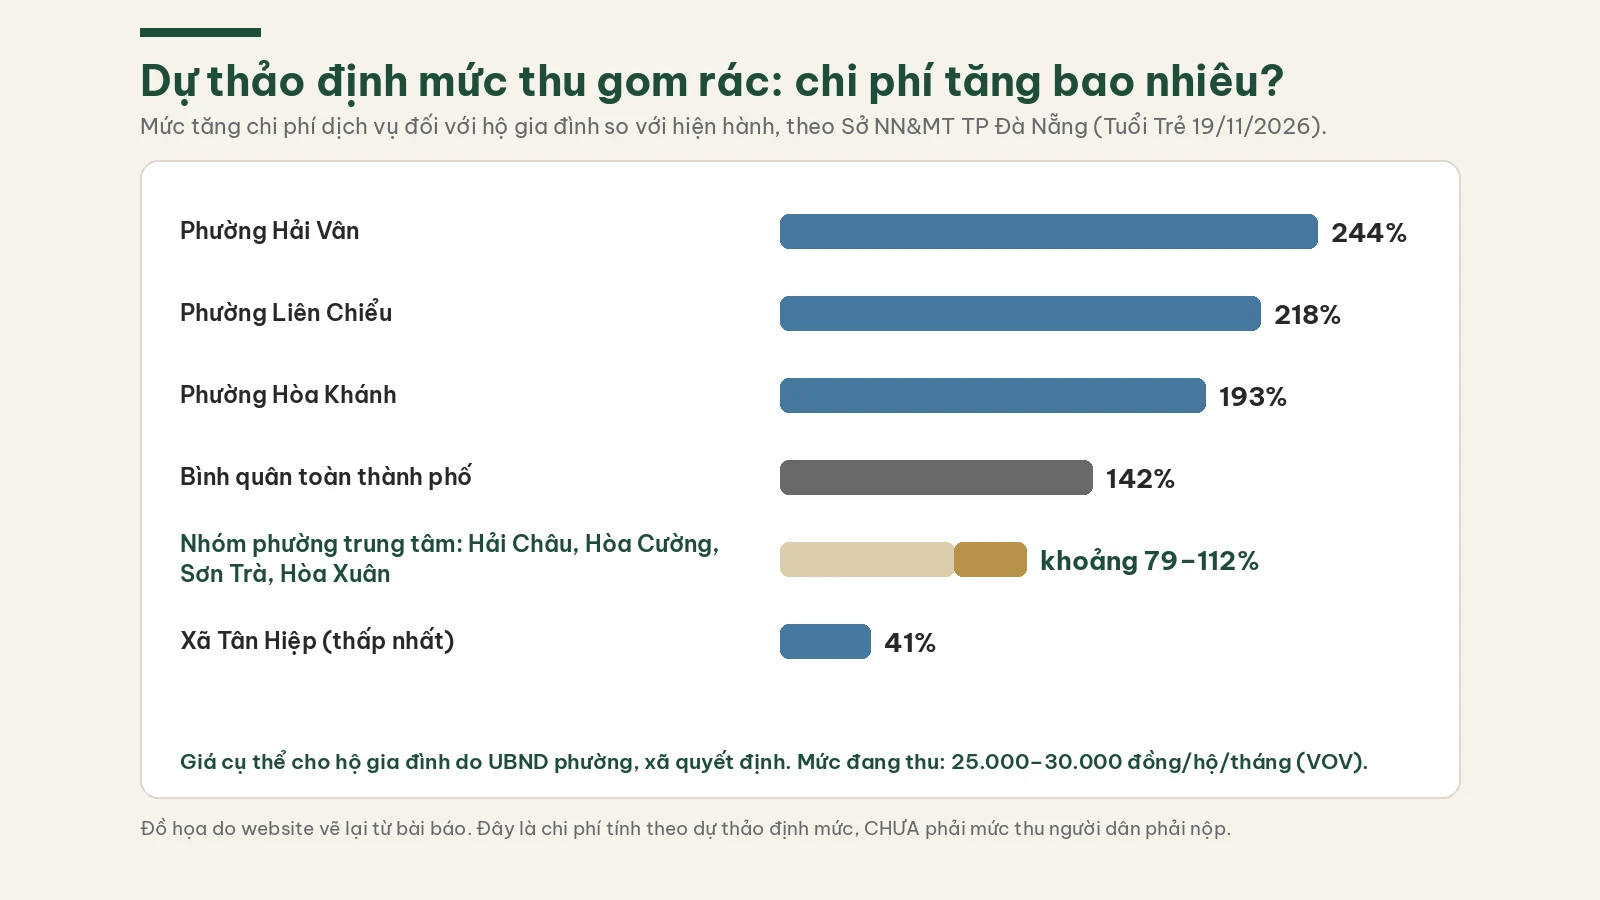
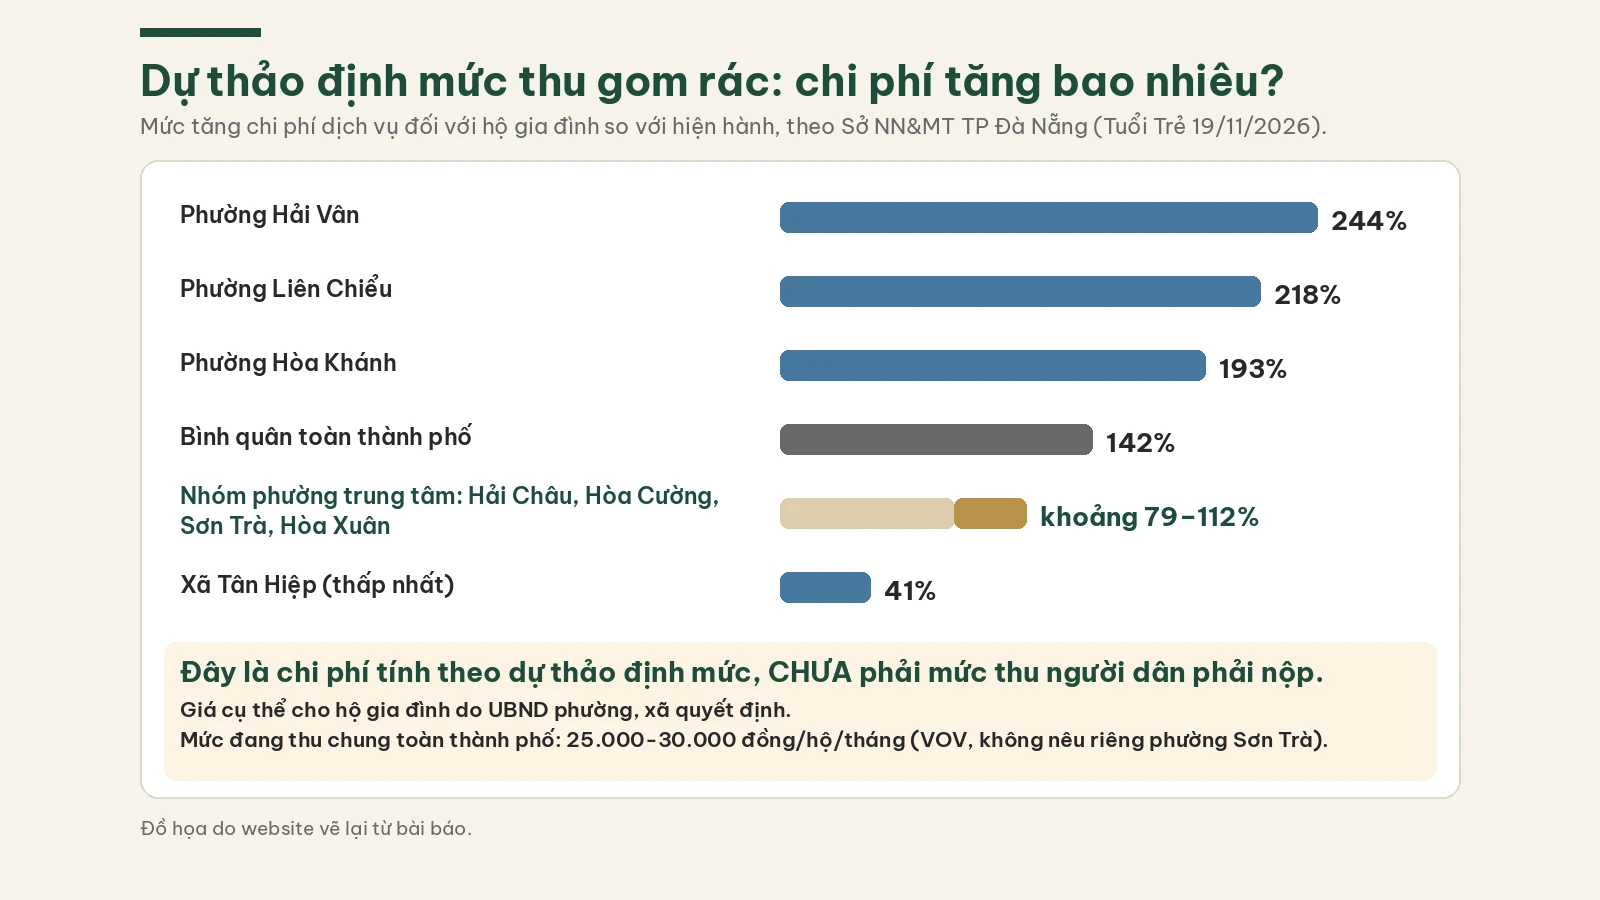
content: rút gọn tiêu đề, làm rõ mức thu VOV là toàn thành phố, đưa chú thích CHƯA phải mức thu vào khung biểu đồ (19.11.2026)

Changed region(s): [[0.0938, 0.2178, 0.9062, 0.8711], [0.2812, 0.9022, 0.7812, 0.9333], [0.0938, 0.2178, 0.2188, 0.28]]

diff --git a/src/data/news/articles/son-tra-ngan-sach-dinh-muc-rac-19-11-2026.ts b/src/data/news/articles/son-tra-ngan-sach-dinh-muc-rac-19-11-2026.ts
@@ -4,7 +4,7 @@ export const article = {
   slug: "son-tra-ngan-sach-dinh-muc-rac-19-11-2026",
   date: "19.11.2026",
   title:
-    "Phường Sơn Trà 17–19/11: HĐND giám sát ngân sách, tăng trưởng ước 11,36%; dự thảo định mức thu gom rác tăng chi phí, chưa phải mức thu",
+    "Phường Sơn Trà 17-19/11: HĐND giám sát ngân sách; dự thảo định mức rác chưa phải mức thu",
   excerpt:
     "Sáng 18/11/2026, Ban Kinh tế – Ngân sách HĐND TP Đà Nẵng giám sát ngân sách tại phường Sơn Trà: tốc độ tăng tổng giá trị sản phẩm trên địa bàn cả năm 2026 ước 11,36%, thu ngân sách đến 31/10 đạt 1.451 tỷ đồng (86% dự toán). Dự thảo định mức thu gom rác mới tính chi phí dịch vụ cho hộ gia đình ở nhóm phường trung tâm, trong đó có Sơn Trà, tăng khoảng 79–112%, nhưng đây chưa phải mức thu người dân.",
   description:
@@ -49,10 +49,10 @@ export const article = {
       text: "Theo Tuổi Trẻ (19/11/2026), Sở Nông nghiệp và Môi trường TP Đà Nẵng vừa có báo cáo giải trình, bổ sung các nội dung phản biện xã hội về dự thảo định mức kinh tế – kỹ thuật thu gom, vận chuyển, xử lý rác sinh hoạt và vệ sinh công cộng. Từ dự thảo, Sở tính chi phí dịch vụ đối với hộ gia đình có thể tăng 41–244% so với mức hiện hành, bình quân khoảng 142%. Các phường trung tâm như Hải Châu, Hòa Cường, Sơn Trà, Hòa Xuân có mức tăng thấp hơn, khoảng 79–112%; mức tăng cao ở phường Hải Vân (244%), Liên Chiểu (218%), Hòa Khánh (193%), thấp nhất là xã Tân Hiệp (41%).",
     },
     {
-      text: "Sở nhấn mạnh mức giá dự kiến mới là chi phí tính theo dự thảo định mức, chưa phải mức thu áp dụng với người dân, và việc ban hành định mức không làm thay đổi ngay mức giá người dân đang trả. UBND các phường, xã, đặc khu sẽ xây dựng, thẩm định và quyết định mức giá cụ thể với hộ gia đình, cá nhân, bảo đảm khả năng thanh toán và có lộ trình, tránh tăng đột biến (Tuổi Trẻ, 19/11/2026). Theo VOV (16/11/2026), mức giá thu gom rác người dân đang trả là 25.000–30.000 đồng/hộ/tháng, áp dụng theo các quyết định ban hành năm 2017; chiều 16/11, Ủy ban MTTQ Việt Nam thành phố tổ chức hội nghị phản biện xã hội dự thảo này. Cổng thông tin điện tử TP Đà Nẵng (30/09/2026) cho biết kế hoạch phấn đấu tham mưu UBND thành phố phê duyệt định mức trong tháng 11/2026. Đồ họa dưới đây do website vẽ lại từ bài Tuổi Trẻ.",
+      text: "Sở nhấn mạnh mức giá dự kiến mới là chi phí tính theo dự thảo định mức, chưa phải mức thu áp dụng với người dân, và việc ban hành định mức không làm thay đổi ngay mức giá người dân đang trả. UBND các phường, xã, đặc khu sẽ xây dựng, thẩm định và quyết định mức giá cụ thể với hộ gia đình, cá nhân, bảo đảm khả năng thanh toán và có lộ trình, tránh tăng đột biến (Tuổi Trẻ, 19/11/2026). Theo VOV (16/11/2026), mức giá thu gom rác người dân trên địa bàn thành phố đang trả là 25.000-30.000 đồng/hộ/tháng, áp dụng theo Quyết định số 33/2017 của UBND TP Đà Nẵng (cũ) và Quyết định số 22/2017 của UBND tỉnh Quảng Nam (cũ); bài VOV không nêu mức riêng của phường Sơn Trà. Chiều 16/11, Ủy ban MTTQ Việt Nam thành phố tổ chức hội nghị phản biện xã hội dự thảo này. Cổng thông tin điện tử TP Đà Nẵng (30/09/2026) cho biết kế hoạch phấn đấu tham mưu UBND thành phố phê duyệt định mức trong tháng 11/2026. Đồ họa dưới đây do website vẽ lại từ bài Tuổi Trẻ.",
       image: "/images/news-son-tra-1911-body-dinh-muc-rac.webp",
       imageAlt:
-        "Biểu đồ mức tăng chi phí dịch vụ thu gom rác đối với hộ gia đình theo dự thảo định mức của Đà Nẵng: phường Hải Vân 244%, Liên Chiểu 218%, Hòa Khánh 193%, bình quân 142%, nhóm phường trung tâm Hải Châu, Hòa Cường, Sơn Trà, Hòa Xuân khoảng 79–112%, xã Tân Hiệp 41%. Ghi chú: đây là chi phí tính theo dự thảo, chưa phải mức thu người dân; giá cụ thể do UBND phường, xã quyết định; mức đang thu 25.000–30.000 đồng/hộ/tháng theo VOV.",
+        "Biểu đồ mức tăng chi phí dịch vụ thu gom rác đối với hộ gia đình theo dự thảo định mức của Đà Nẵng: phường Hải Vân 244%, Liên Chiểu 218%, Hòa Khánh 193%, bình quân 142%, nhóm phường trung tâm Hải Châu, Hòa Cường, Sơn Trà, Hòa Xuân khoảng 79–112%, xã Tân Hiệp 41%. Ghi chú: đây là chi phí tính theo dự thảo, chưa phải mức thu người dân; giá cụ thể do UBND phường, xã quyết định; Mức đang thu chung toàn thành phố: 25.000-30.000 đồng/hộ/tháng (VOV, không nêu riêng phường Sơn Trà).",
     },
     {
       heading: "Chương trình vùng Sơn Trà ra mắt Ban Phát triển 22 tổ dân phố",
@@ -70,7 +70,7 @@ export const article = {
       ],
     },
     {
-      text: "Theo Tiền Phong (18/11/2026), Ban Chỉ huy Phòng thủ dân sự TP Đà Nẵng đã ban hành Công văn số 94, yêu cầu các địa phương rà soát khu vực trũng thấp, nguy cơ sạt lở, kiểm tra hệ thống thoát nước, khơi thông dòng chảy; vùng biển từ Nam Quảng Trị đến Quảng Ngãi từ chiều và đêm 19/11 có gió mạnh cấp 6, giật cấp 7–8. Về bán đảo Sơn Trà, tạm dừng tham quan từ 15h30 ngày 10/11/2026 (VietNamNet, 10/11/2026); đến sáng 19/11, website chưa tìm thấy nguồn báo chí nào đưa thông báo mở lại của Ban Quản lý. Anh chị nên theo dõi bản tin mới nhất và thông báo của Ban Quản lý trước khi lên bán đảo.",
+      text: "Cũng theo Tiền Phong, Ban Chỉ huy Phòng thủ dân sự TP Đà Nẵng đã ban hành Công văn số 94, yêu cầu các địa phương rà soát khu vực trũng thấp, nguy cơ sạt lở, kiểm tra hệ thống thoát nước, khơi thông dòng chảy. Về bán đảo Sơn Trà, tạm dừng tham quan từ 15h30 ngày 10/11/2026 (VietNamNet, 10/11/2026); đến sáng 19/11, website chưa tìm thấy nguồn báo chí nào đưa thông báo mở lại của Ban Quản lý. Anh chị nên theo dõi bản tin mới nhất và thông báo của Ban Quản lý trước khi lên bán đảo.",
     },
     {
       heading: "Tìm hiểu căn hộ ở phường Sơn Trà",
